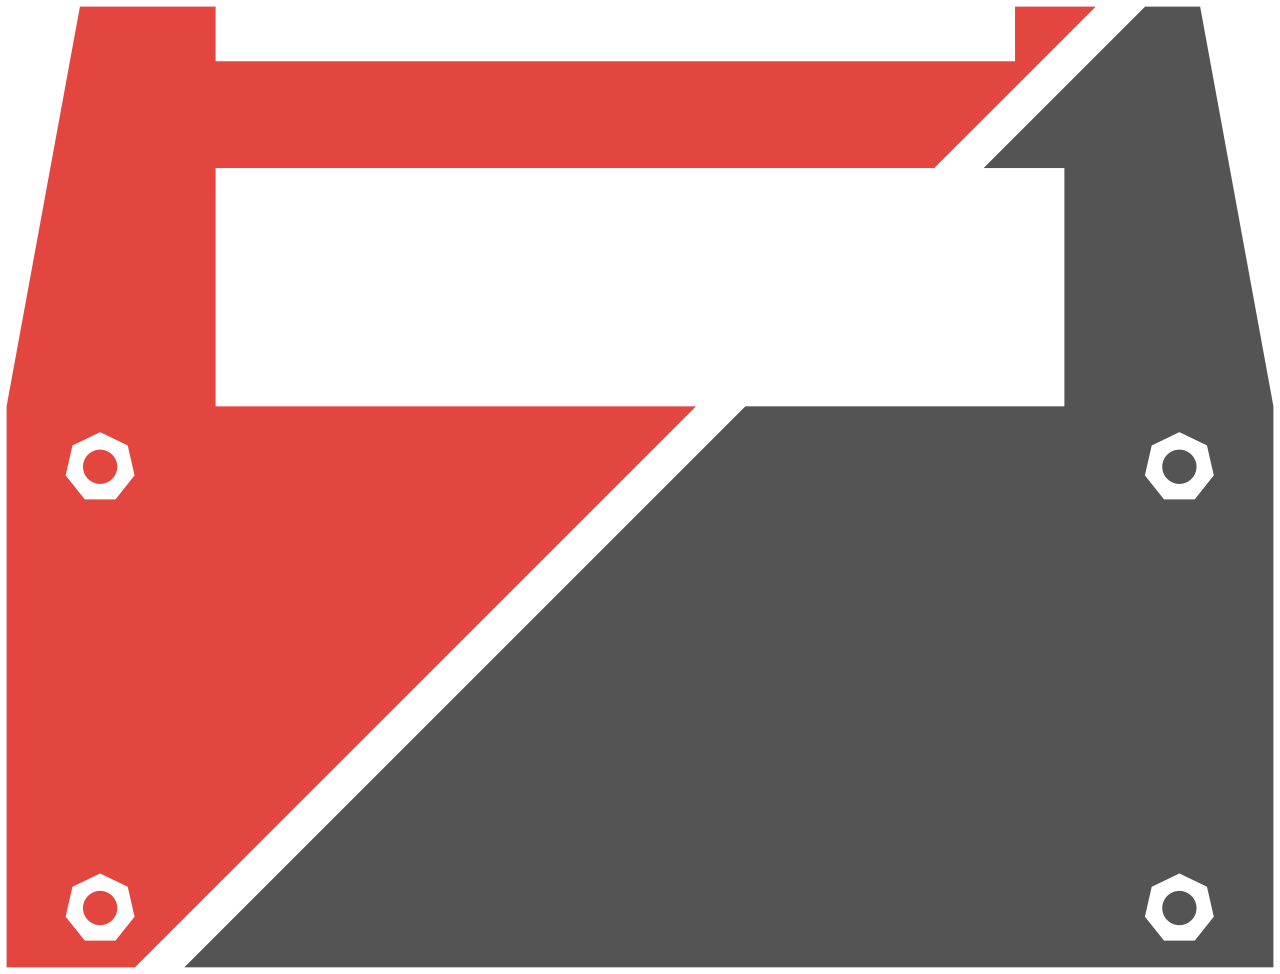
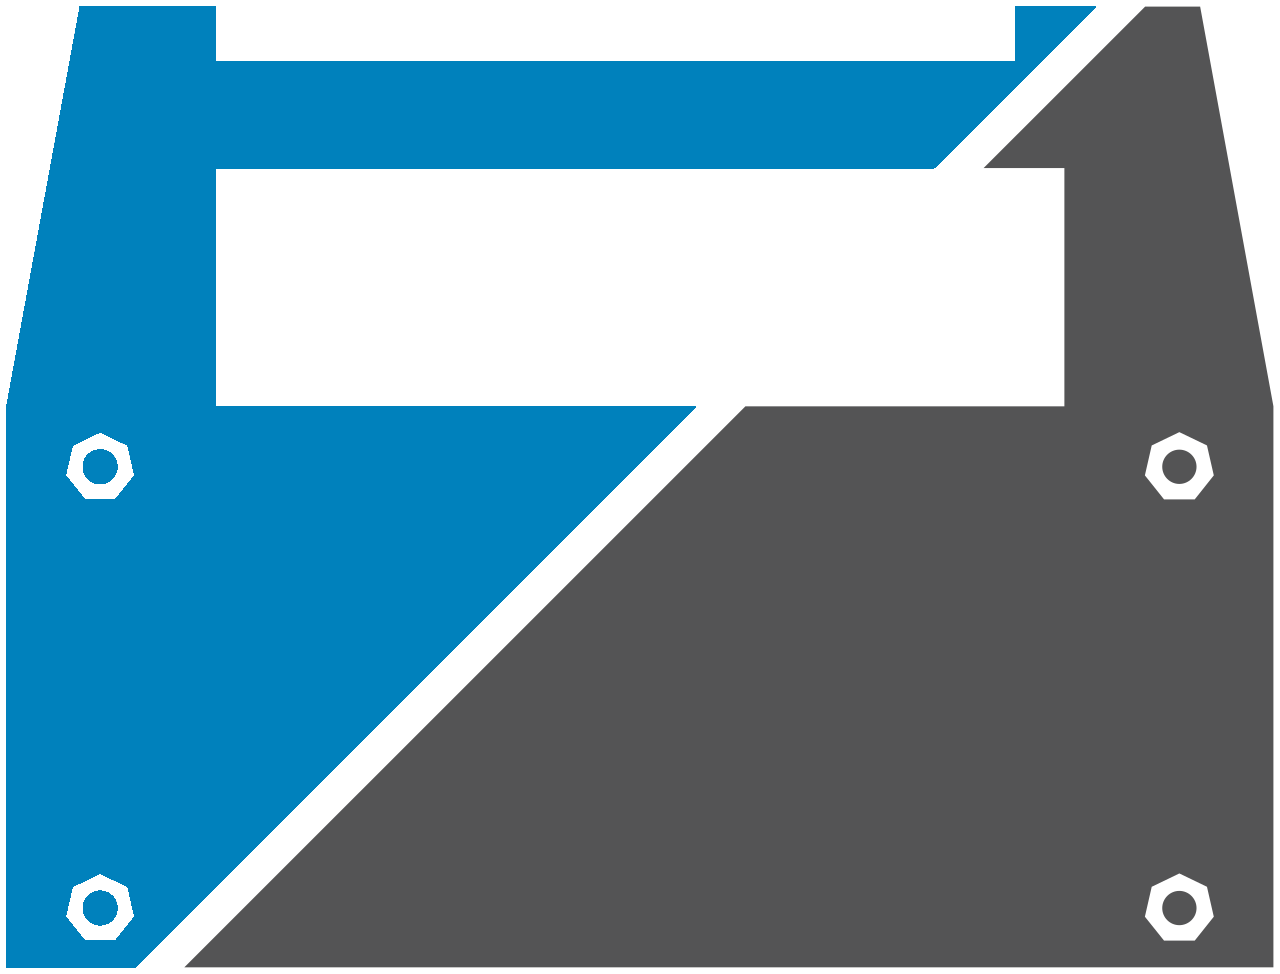
color

diff --git a/html/assets/css/main.css b/html/assets/css/main.css
@@ -199,13 +199,13 @@ a {
 	-webkit-transition: color 0.2s ease-in-out, border-color 0.2s ease-in-out, opacity 0.2s ease-in-out;
 	-ms-transition: color 0.2s ease-in-out, border-color 0.2s ease-in-out, opacity 0.2s ease-in-out;
 	transition: color 0.2s ease-in-out, border-color 0.2s ease-in-out, opacity 0.2s ease-in-out;
-	color: #de5e54;
+	color: #0081bc;
 	text-decoration: none;
 	border-bottom: dotted 1px;
 }
 
 a:hover {
-	color: #de5e54;
+	color: #0081bc;
 	border-bottom-color: transparent;
 }
 
@@ -2139,7 +2139,7 @@ input[type="text"]:focus,
 input[type="password"]:focus,
 input[type="email"]:focus,
 textarea:focus {
-	border-color: #de5e54;
+	border-color: #0081bc;
 	background-color: #fffafa;
 }
 
@@ -2268,7 +2268,7 @@ label {
 .icon.major {
 	text-align: center;
 	cursor: default;
-	background-color: #de5e54;
+	background-color: #0081bc;
 	background-image: -moz-linear-gradient(top, rgba(0, 0, 0, 0), rgba(0, 0, 0, 0.15)), url("images/bg01.png");
 	background-image: -webkit-linear-gradient(top, rgba(0, 0, 0, 0), rgba(0, 0, 0, 0.15)), url("images/bg01.png");
 	background-image: -ms-linear-gradient(top, rgba(0, 0, 0, 0), rgba(0, 0, 0, 0.15)), url("images/bg01.png");
@@ -2527,7 +2527,7 @@ button,
 	background-image: -webkit-linear-gradient(top, rgba(0, 0, 0, 0), rgba(0, 0, 0, 0.15)), url("images/bg01.png");
 	background-image: -ms-linear-gradient(top, rgba(0, 0, 0, 0), rgba(0, 0, 0, 0.15)), url("images/bg01.png");
 	background-image: linear-gradient(top, rgba(0, 0, 0, 0), rgba(0, 0, 0, 0.15)), url("images/bg01.png");
-	background-color: #de5e54;
+	background-color: #0081bc;
 	border-radius: 5px;
 	border: 0;
 	color: #fff;
@@ -2683,7 +2683,7 @@ button.small,
 	display: block;
 	width: 100%;
 	height: 0.75em;
-	background-color: #de5e54;
+	background-color: #0081bc;
 	background-image: url("images/bg01.png");
 }
 
@@ -2730,7 +2730,7 @@ button.small,
 	bottom: -0.5em;
 	left: 50%;
 	margin-left: -0.375em;
-	background-color: #de5e54;
+	background-color: #0081bc;
 	background-image: url("images/bg01.png");
 }
 
@@ -2855,7 +2855,7 @@ button.small,
 }
 
 .wrapper.style3 {
-	background-color: #de5e54;
+	background-color: #0081bc;
 	background-image: -moz-linear-gradient(top, rgba(0, 0, 0, 0), rgba(0, 0, 0, 0.15)), url("images/bg01.png");
 	background-image: -webkit-linear-gradient(top, rgba(0, 0, 0, 0), rgba(0, 0, 0, 0.15)), url("images/bg01.png");
 	background-image: -ms-linear-gradient(top, rgba(0, 0, 0, 0), rgba(0, 0, 0, 0.15)), url("images/bg01.png");
@@ -2869,7 +2869,7 @@ button.small,
 }
 
 .wrapper.style3 .button:hover {
-	color: #de5e54 !important;
+	color: #0081bc !important;
 }
 
 /* CTA */
@@ -2902,7 +2902,7 @@ button.small,
 }
 
 #footer a:hover {
-	color: #de5e54;
+	color: #0081bc;
 	border-bottom-color: transparent;
 }
 
@@ -3207,7 +3207,7 @@ button.small,
 		background-image: linear-gradient(top, rgba(0, 0, 0, 0), rgba(0, 0, 0, 0.3)), url("images/bg01.png");
 		height: 44px;
 		line-height: 44px;
-		box-shadow: 0 4px 0 0 #de5e54;
+		box-shadow: 0 4px 0 0 #0081bc;
 	}
 
 	#titleBar .title {
@@ -3542,7 +3542,7 @@ button.small,
 
 /* When the radio button is checked, add a background */
 .radio-container input:checked ~ .radio-checkmark {
-	background-color: #de5e54;
+	background-color: #0081bc;
 }
 
 /* Create the indicator (the dot/circle - hidden when not checked) */
